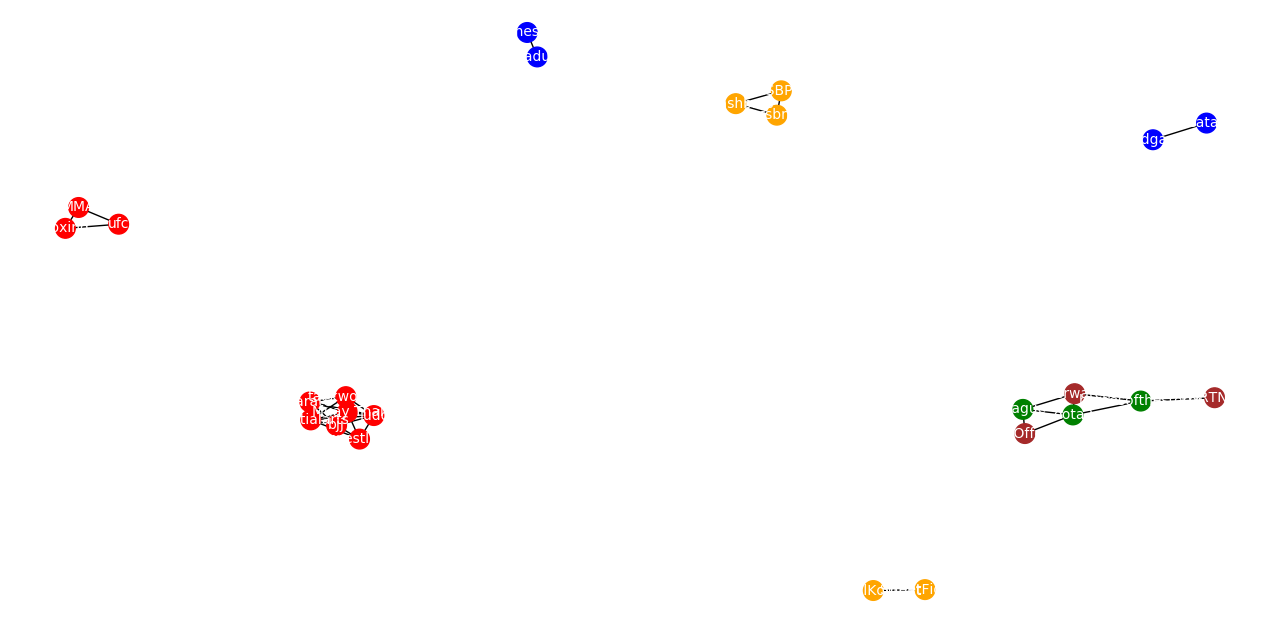
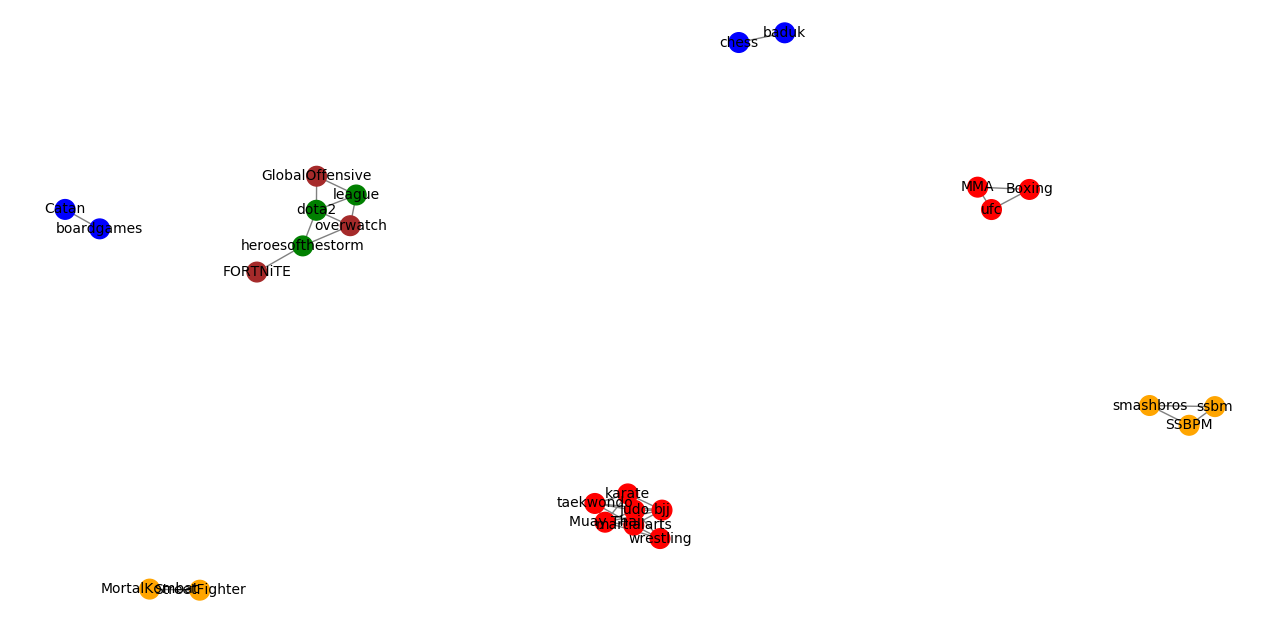
updated articles and resume
updated articles and resume

diff --git a/joseph/templates/joseph/index.html b/joseph/templates/joseph/index.html
@@ -15,7 +15,7 @@
 
 <body>
     <div class="wrapper">
-    <div class="content-wrap">
+    <div class="content-wrapper">
     <nav class="navbar navbar-expand-lg">
       <a class="navbar-brand" href="#">Joseph Rajchwald</a>
       <button class="navbar-toggler" type="button" data-toggle="collapse" data-target="#navbarSupportedContent" aria-controls="navbarSupportedContent" aria-expanded="false" aria-label="Toggle navigation">
@@ -30,73 +30,124 @@
           <li class="nav-item">
             <a class="nav-link" href="/articles">Articles</a>
           </li>
-          <li class="nav-item dropdown">
-            <a class="nav-link dropdown" href="/joseph">
+          <li class="nav-item">
+            <a class="nav-link" href="/joseph">
               Me
             </a>
+          </li>
         </ul>
       </div>
     </nav>
     
     <div class="container">
+      <br>
       <h2>Experience and Education</h2>
       <div class="row">
       <div class="card">
+        <div class="row">
+        <div class="col-md-2">
         {% load static %}
-        <span class="float-left">
-        <img class="card-img-top img-thumbnail float-left" src="{% static "joseph/epic.jpg" %}" alt="Card image cap">
-        </span>
-        <span class="foat-right">
+        <img class="card-img-top img-thumbnail" src="{% static "joseph/epic.jpg" %}" alt="Card image cap">
+        </div>
+        <div class="col-md-10">
         <ul>
-          <li>Epic Systems <span class="text-muted">· August 2016 - June 2019</span></li>
+          Epic Systems <br>
+          <span class="text-muted">August 2016 - June 2019</span></li>
           <ul>
             <li>Technical Services Engineer</li>
             <li>Ambulatory Reporting Lead</li>
+            <li>Project management, server side programming, customer relations</li>
           </ul>
-        </span>
+        </div>
+        </div>
       </div>
       <div class="card">
-        {% load static %}
-        <span class="float-left">
-        <img class="card-img-top img-thumbnail float-left" src="{% static "joseph/uiuc.jpg" %}" alt="Card image cap">
-        </span>
-        <span class="foat-right">
-        <ul>
-        <li>University of Illinois at Urbana-Champaign <span class="text-muted">· August 2013 - May 2016</span></li>
-          <ul>
-            <li>Research Assistant, Teaching Assistant, Engineering Student Admission Representative</li>
-            <li>B.S. in Nuclear, Plasma, and Radiological Engineering</li>
-          </ul>
-        </ul>
-        </span>
-      </div>
-      </div>
-    
-      <h2>Hobbies</h2>
         <div class="row">
-        <div class="card">
+          <div class="col-md-2">
+        {% load static %}
+        <img class="card-img-top img-thumbnail" src="{% static "joseph/uiuc.jpg" %}" alt="Card image cap">
+          </div>
+        <div class="col-md-10">
         <ul>
-        <li>Gaming</li>
+        University of Illinois at Urbana-Champaign <span class="text-muted"> <br>
+        August 2013 - May 2016</span>
           <ul>
-            <li>League of Legends</li>
-            <li>Super Smash Bros. Melee</li>
+            <li>Research Assistant, Teaching Assistant</li>
+            <li>B.S. in Nuclear, Plasma, and Radiological Engineering</li>
+            <li>Dean’s List, Nuclear Regulatory Commission Scholarship, James Scholar</li>
           </ul>
         </ul>
         </div>
+      </div>
+      </div>
+    </div>
+    <br>
+      <h2>Hobbies</h2>
+        <div class="row">
         <div class="card">
+        Gaming
           <ul>
-        <li>Fitness</li>
+            <li>League of Legends</li>
+              <ul>
+                <li>Mid/Jungle main</li>
+                <li>Season 4 Diamond 2</li>
+              </ul>
+            <li>Super Smash Bros. Melee</li>
+              <ul>
+                <li>Sheik main</li>
+                <li>Former number 1 on the Epic Systems melee power rankings</li>
+              </ul>
+          </ul>
+        </div>
+        <div class="card">
+
+        Fitness
           <ul>
             <li>Strength</li>
             <li>Brazilian Jiu-Jitsu</li>
             <li>Swimming</li>
+          <ul>
+                <li>High school athlete - breast stroke and IM</li>
+                <li></li>
+              </ul>
           </ul>
-        </ul>
+        </div>
+      </div>
+      <br>
+      <h2>Favorites</h2>
+      <div class="row">
+        <div class="card">
+        Books
+          <ul>
+            <li>Contemporary Fiction</li>
+              <ul>
+                <li>The Windup Bird Chronicle, Haruki Murakami</li>
+                <li>A Hologram for a King, Dave Eggers</li>
+              </ul>
+            <li>Nonfiction</li>
+              <ul>
+                <li>10% Happier, Sam Harris</li>
+                <li>A Year of Magical Thinking, Joan Didion</li>
+              </ul>
+          </ul>
+        </div>
+        <div class="card">
+
+        Movies/TV
+          <ul>
+            <li>Strength</li>
+            <li>Brazilian Jiu-Jitsu</li>
+            <li>Swimming</li>
+          <ul>
+                <li>High school athlete - breast stroke and IM</li>
+                <li></li>
+              </ul>
+          </ul>
         </div>
       </div>
     </div>
   </div>
-  </div> 
+
 
   <br>
 <!-- lazy workaround to footer covering content -->
@@ -129,6 +180,7 @@
         </div>
       </div>
   
-  
+
   </footer>
+</div> 
   </body>

diff --git a/articles/templates/articles/network-correlation-diagrams-to-demonstrate-community-word-choice.html b/articles/templates/articles/network-correlation-diagrams-to-demonstrate-community-word-choice.html
@@ -49,7 +49,11 @@
 </ol>
 <h5>Results</h5>
 {% load static %}
-<img src="{% static "articles/everything.png" %}" alt="My image">
+<a href="everything"><img src="{% static "articles/everything.png" %}" alt="everything"></a>
+<br>
+<a href="esports"><img src="{% static "articles/esports.png" %}" alt="esports"></a>
+<br>
+<a href="martial_arts"><img src="{% static "articles/martial_arts.png" %}" alt="martial_arts"></a>
 <br>
 </div>
 <div>

diff --git a/joseph/static/joseph/index.css b/joseph/static/joseph/index.css
@@ -97,7 +97,7 @@ footer ul {
   min-height: 100vh;
 }
 
-.content-wrap {
+.content-wrapper {
   position: relative;
   min-height: 100vh;
   margin-bottom: 10px;
@@ -108,10 +108,15 @@ footer ul {
   background-color: grey;
 }
 
-.card-img-top {
+.card {
   width: 50%
 }
 
-.card {
-  width: 50%
+.wrapper {
+  position: relative;
+  min-height: 100vh;
+}
+
+.navbar-brand {
+  margin-left: 10px;
 }

diff --git a/articles/static/articles/base.css b/articles/static/articles/base.css
@@ -111,3 +111,6 @@ table{
     padding-bottom: 10rem;
   }
   
+  .navbar-brand {
+    margin-left: 10px;
+  }

diff --git a/main/static/main/index.css b/main/static/main/index.css
@@ -90,3 +90,7 @@ form {
   padding-bottom: 10rem;
 }
 
+
+.navbar-brand {
+  margin-left: 10px;
+}

diff --git a/articles/templates/articles/image.html b/articles/templates/articles/image.html
@@ -1,0 +1,2 @@
+{% load static %}
+<img src="{% static "articles/"%}{{ slug2 }}.png" alt="wang">

diff --git a/main/views.py b/main/views.py
@@ -57,12 +57,10 @@ def CommView(request,choice1,choice2,slug):
 
     slug = slug.lower()
     if len(slug.split('-')) > 1:
-        error = 'Please only enter a single word.'
+        error = 'Please enter only a single word.'
         return render(request, template_name='main/error.html', context={'error':error})
 
     s3 = boto3.client('s3')
-    # w2v1 = s3.get_object(Bucket='herokulangsite', Key='vectors/'+choice1+'_vectors.kv')
-    # w2v2 = s3.get_object(Bucket='herokulangsite', Key='vectors/'+choice2+'_vectors.kv')
     tfidf1 = s3.get_object(Bucket='herokulangsite', Key='tfidf/'+choice1+'_tfidf_df.csv')
     tfidf2 = s3.get_object(Bucket='herokulangsite', Key='tfidf/'+choice2+'_tfidf_df.csv')
 

diff --git a/articles/views.py b/articles/views.py
@@ -5,3 +5,7 @@ def Index(request):
 
 def article(request, slug):
     return render(request, 'articles/'+slug+'.html')
+
+def image(request, slug, slug2):
+    context = {'slug2': slug2}
+    return render(request, template_name='articles/image.html',context=context)

diff --git a/articles/urls.py b/articles/urls.py
@@ -6,4 +6,5 @@ app_name = 'main'
 urlpatterns = [
     path('', views.Index, name='Index'),
     path('<slug:slug>/', views.article, name='article'),
+    path('<slug:slug>/<slug:slug2>', views.image, name='image'),
 ]
